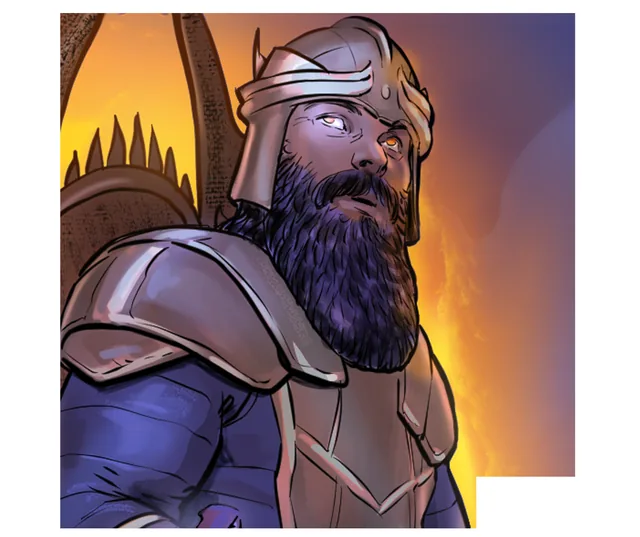
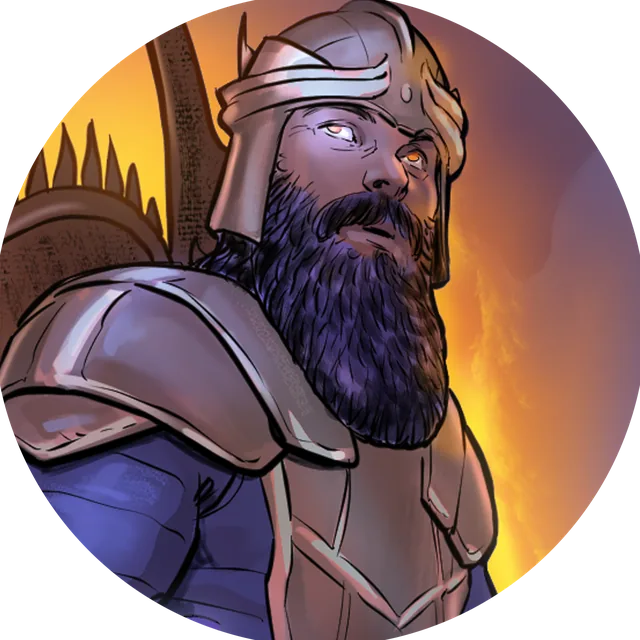
fix(dossier): crop portraits to medallion, keep WebP alpha
Perf pass convert(RGB) baked white letterbox bars into circular frames. Crop to content square and encode RGBA WebP so CSS circles fill cleanly (CACHE_V=5).

diff --git a/dossier/index.html b/dossier/index.html
@@ -6,7 +6,7 @@
 <title>Character Dossier — Intrepid Dusk</title>
 <meta name="description" content="Faces of the Hollowlands. Explore the characters of Intrepid Dusk.">
 <meta name="robots" content="noindex,nofollow">
-<link rel="preload" as="image" href="/dossier/portraits/character_dossier_Elena.webp?v=4" fetchpriority="high">
+<link rel="preload" as="image" href="/dossier/portraits/character_dossier_Elena.webp?v=5" fetchpriority="high">
 <link href="https://fonts.googleapis.com/css2?family=Cinzel:wght@400;700&family=Cinzel+Decorative:wght@400;700&family=EB+Garamond:ital,wght@0,400;0,600;1,400&display=swap" rel="stylesheet">
 <style>
 /* ═══════════════════════════════════════════
@@ -167,12 +167,13 @@ body {
   flex-shrink: 0;
   transition: border-color 0.3s;
   position: relative;
-  background: rgba(198,141,85,0.06);
+  background: var(--stone-dark);
 }
 .roster-item.active .ri-avatar,
 .roster-item:hover .ri-avatar { border-color: var(--gold); }
 .ri-avatar img {
   width: 100%; height: 100%; object-fit: cover;
+  object-position: center;
   opacity: 0;
   transition: opacity 0.2s ease;
 }
@@ -244,9 +245,11 @@ body {
   margin: 0 auto 28px;
   border: 2px solid rgba(198,141,85,0.35);
   box-shadow: 0 0 50px rgba(120,190,210,0.08), 0 8px 40px rgba(0,0,0,0.5);
+  background: var(--stone-dark);
 }
 .detail-portrait img {
   width: 100%; height: 100%; object-fit: cover;
+  object-position: center;
   opacity: 0;
   transition: opacity 0.3s ease;
 }
@@ -355,7 +358,7 @@ body {
 // CHARACTER DATA
 // ═══════════════════════════════════════════
 /* Bump when thumbs/portraits change. Source PNGs are not served (see .netlifyignore). */
-var CACHE_V = '4';
+var CACHE_V = '5';
 var DOSSIER_BASE = '/dossier/';
 
 function assetBaseName(imgPath) {

diff --git a/dossier/gen_thumbs.py b/dossier/gen_thumbs.py
@@ -1,3 +1,9 @@
+"""Generate dossier sidebar thumbs + detail portraits from source PNGs.
+
+Source PNGs are circular medallions on a transparent rectangular canvas.
+We crop to the opaque content square, then encode square WebP with alpha
+so CSS object-fit:cover circles fill cleanly (no white letterbox bars).
+"""
 import os
 import glob
 from PIL import Image
@@ -11,37 +17,65 @@ os.makedirs(portrait_dir, exist_ok=True)
 THUMB_SIZE = 96
 PORTRAIT_SIZE = 640
 QUALITY = 82
+# Inset a hair so semi-transparent fringe at the medallion rim sits outside
+# the CSS circle after object-fit: cover.
+INSET_FRAC = 0.01
+
+
+def content_square(img):
+    """Crop to opaque content, then a centered square (optionally inset)."""
+    rgba = img.convert('RGBA')
+    alpha = rgba.split()[3]
+    bbox = alpha.getbbox()
+    if not bbox:
+        return rgba
+    cropped = rgba.crop(bbox)
+    w, h = cropped.size
+    side = min(w, h)
+    left = (w - side) // 2
+    top = (h - side) // 2
+    square = cropped.crop((left, top, left + side, top + side))
+    if INSET_FRAC > 0 and side > 8:
+        inset = max(1, int(side * INSET_FRAC))
+        square = square.crop((inset, inset, side - inset, side - inset))
+    return square
+
+
+def cover_resize(img, size):
+    """Resize exactly to size x size (cover; source is already square)."""
+    return img.resize((size, size), Image.LANCZOS)
+
 
 results = []
 for src in sorted(set(glob.glob(os.path.join(d, '*.png')))):
     base = os.path.basename(src)
     name = os.path.splitext(base)[0]
     safe = name.replace(' ', '_')
-    img = Image.open(src).convert('RGB')
+    img = Image.open(src)
+    square = content_square(img)
 
-    thumb = img.copy()
-    thumb.thumbnail((THUMB_SIZE, THUMB_SIZE), Image.LANCZOS)
+    thumb = cover_resize(square, THUMB_SIZE)
     out_webp = os.path.join(thumb_dir, safe + '.webp')
     thumb.save(out_webp, 'WEBP', quality=QUALITY, method=6)
 
-    port = img.copy()
-    port.thumbnail((PORTRAIT_SIZE, PORTRAIT_SIZE), Image.LANCZOS)
+    port = cover_resize(square, PORTRAIT_SIZE)
     out_port = os.path.join(portrait_dir, safe + '.webp')
     port.save(out_port, 'WEBP', quality=QUALITY, method=6)
 
     src_size = os.path.getsize(src)
     webp_size = os.path.getsize(out_webp)
     port_size = os.path.getsize(out_port)
-    results.append((base, src_size, webp_size, port_size, port.size))
+    results.append((base, src_size, webp_size, port_size, port.size, port.mode))
 
 report_path = os.path.join(d, '_thumb_sizes.txt')
 with open(report_path, 'w', encoding='utf-8') as f:
-    f.write('Thumbnail: %spx, Portrait: %spx, WebP quality: %s\n\n' % (THUMB_SIZE, PORTRAIT_SIZE, QUALITY))
+    f.write('Thumbnail: %spx, Portrait: %spx, WebP quality: %s (RGBA crop+cover)\n\n' % (
+        THUMB_SIZE, PORTRAIT_SIZE, QUALITY))
     f.write('%-42s %10s %10s %10s\n' % ('Source', 'Full', 'Thumb', 'Portrait'))
     f.write('-' * 78 + '\n')
     total_full = total_thumb = total_port = 0
-    for base, src_size, webp_size, port_size, size in results:
-        f.write('%-42s %10d %10d %10d  %s\n' % (base, src_size, webp_size, port_size, size))
+    for base, src_size, webp_size, port_size, size, mode in results:
+        f.write('%-42s %10d %10d %10d  %s %s\n' % (base, src_size, webp_size, port_size, size, mode))
         total_full += src_size
         total_thumb += webp_size
         total_port += port_size
